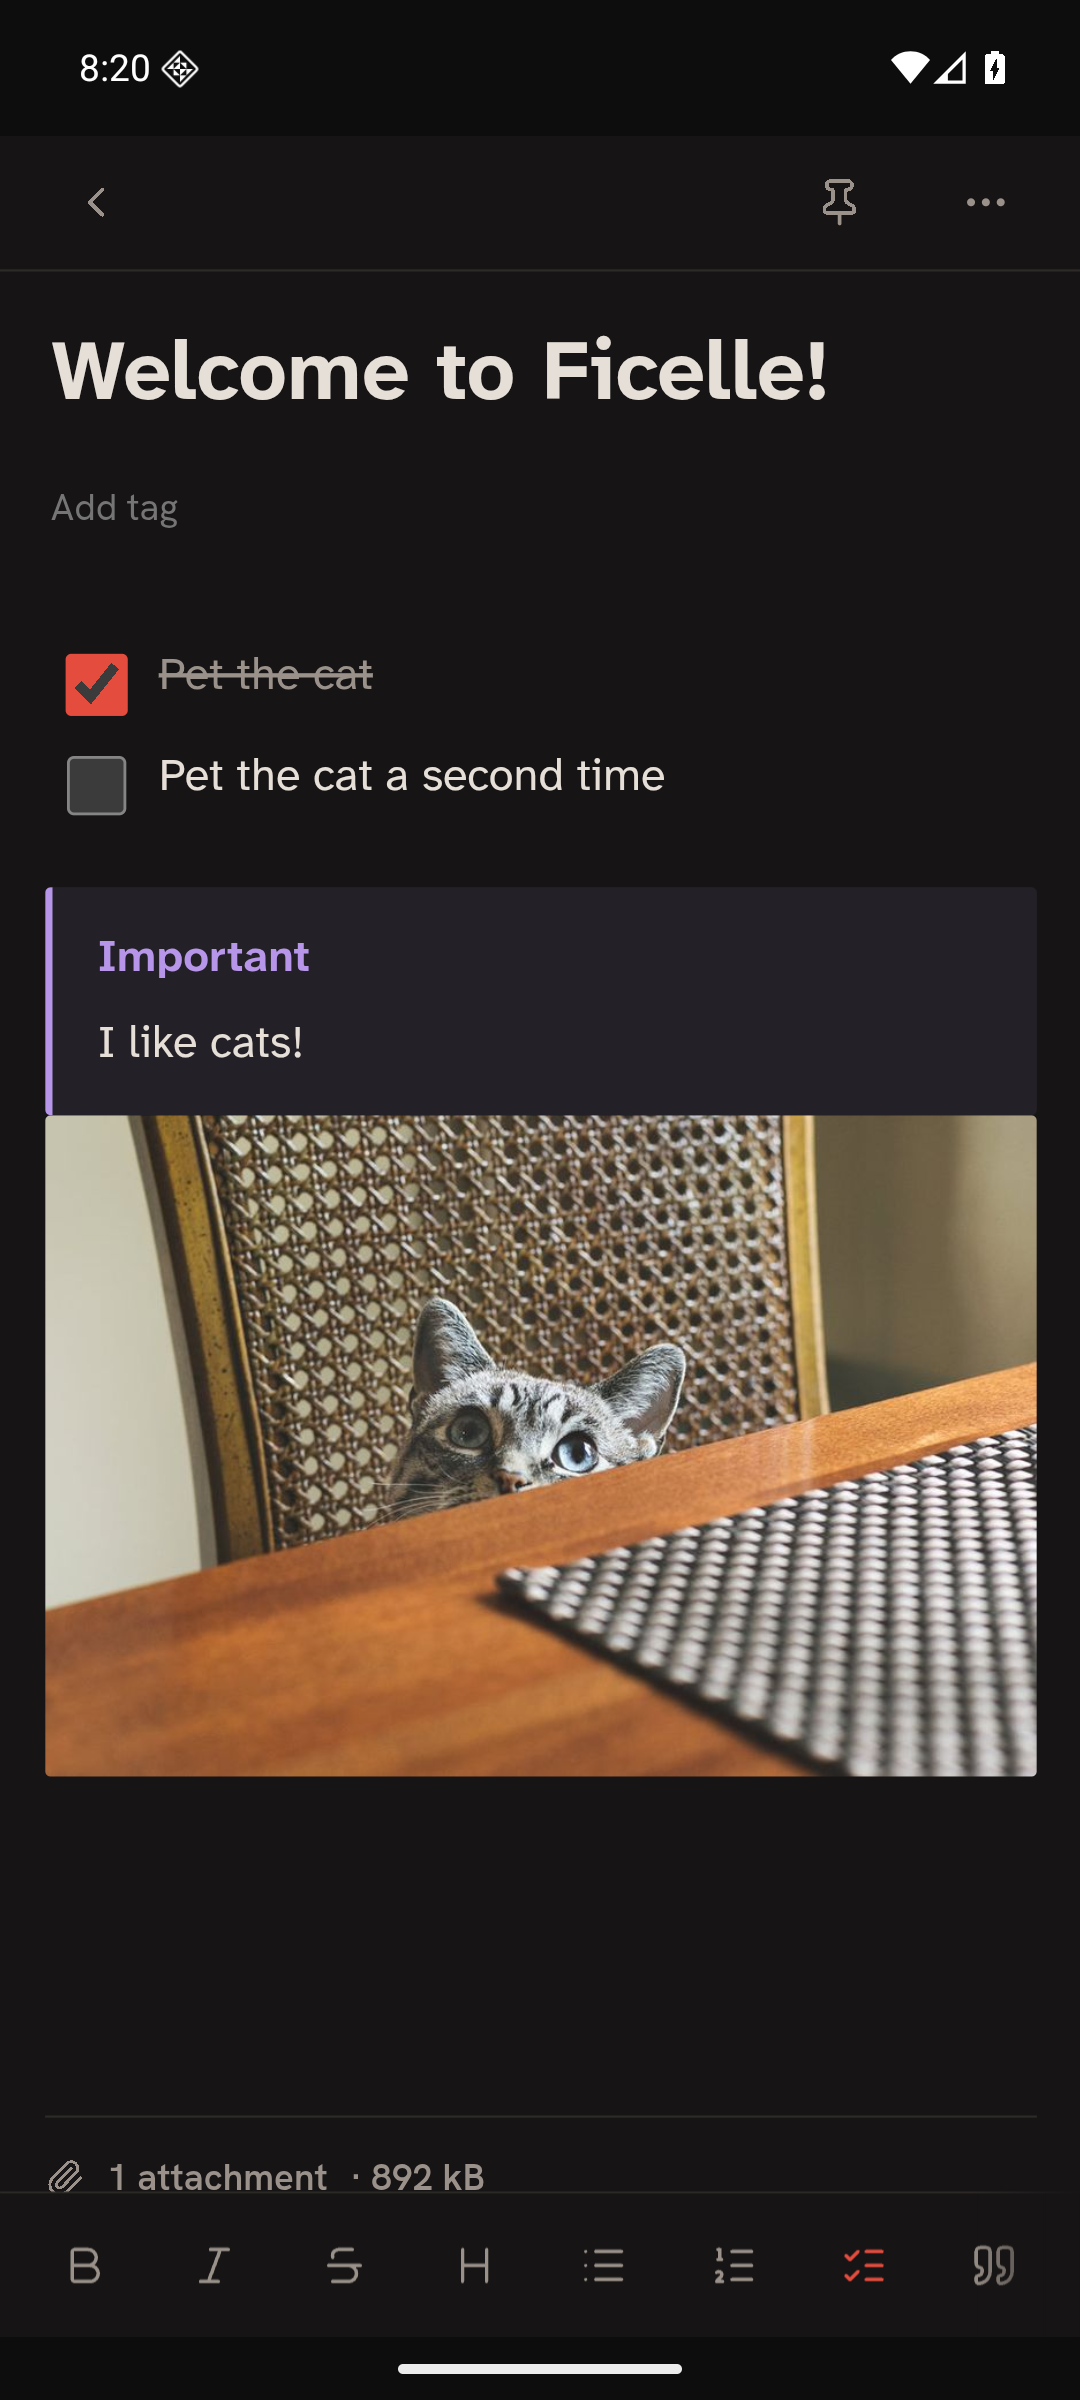
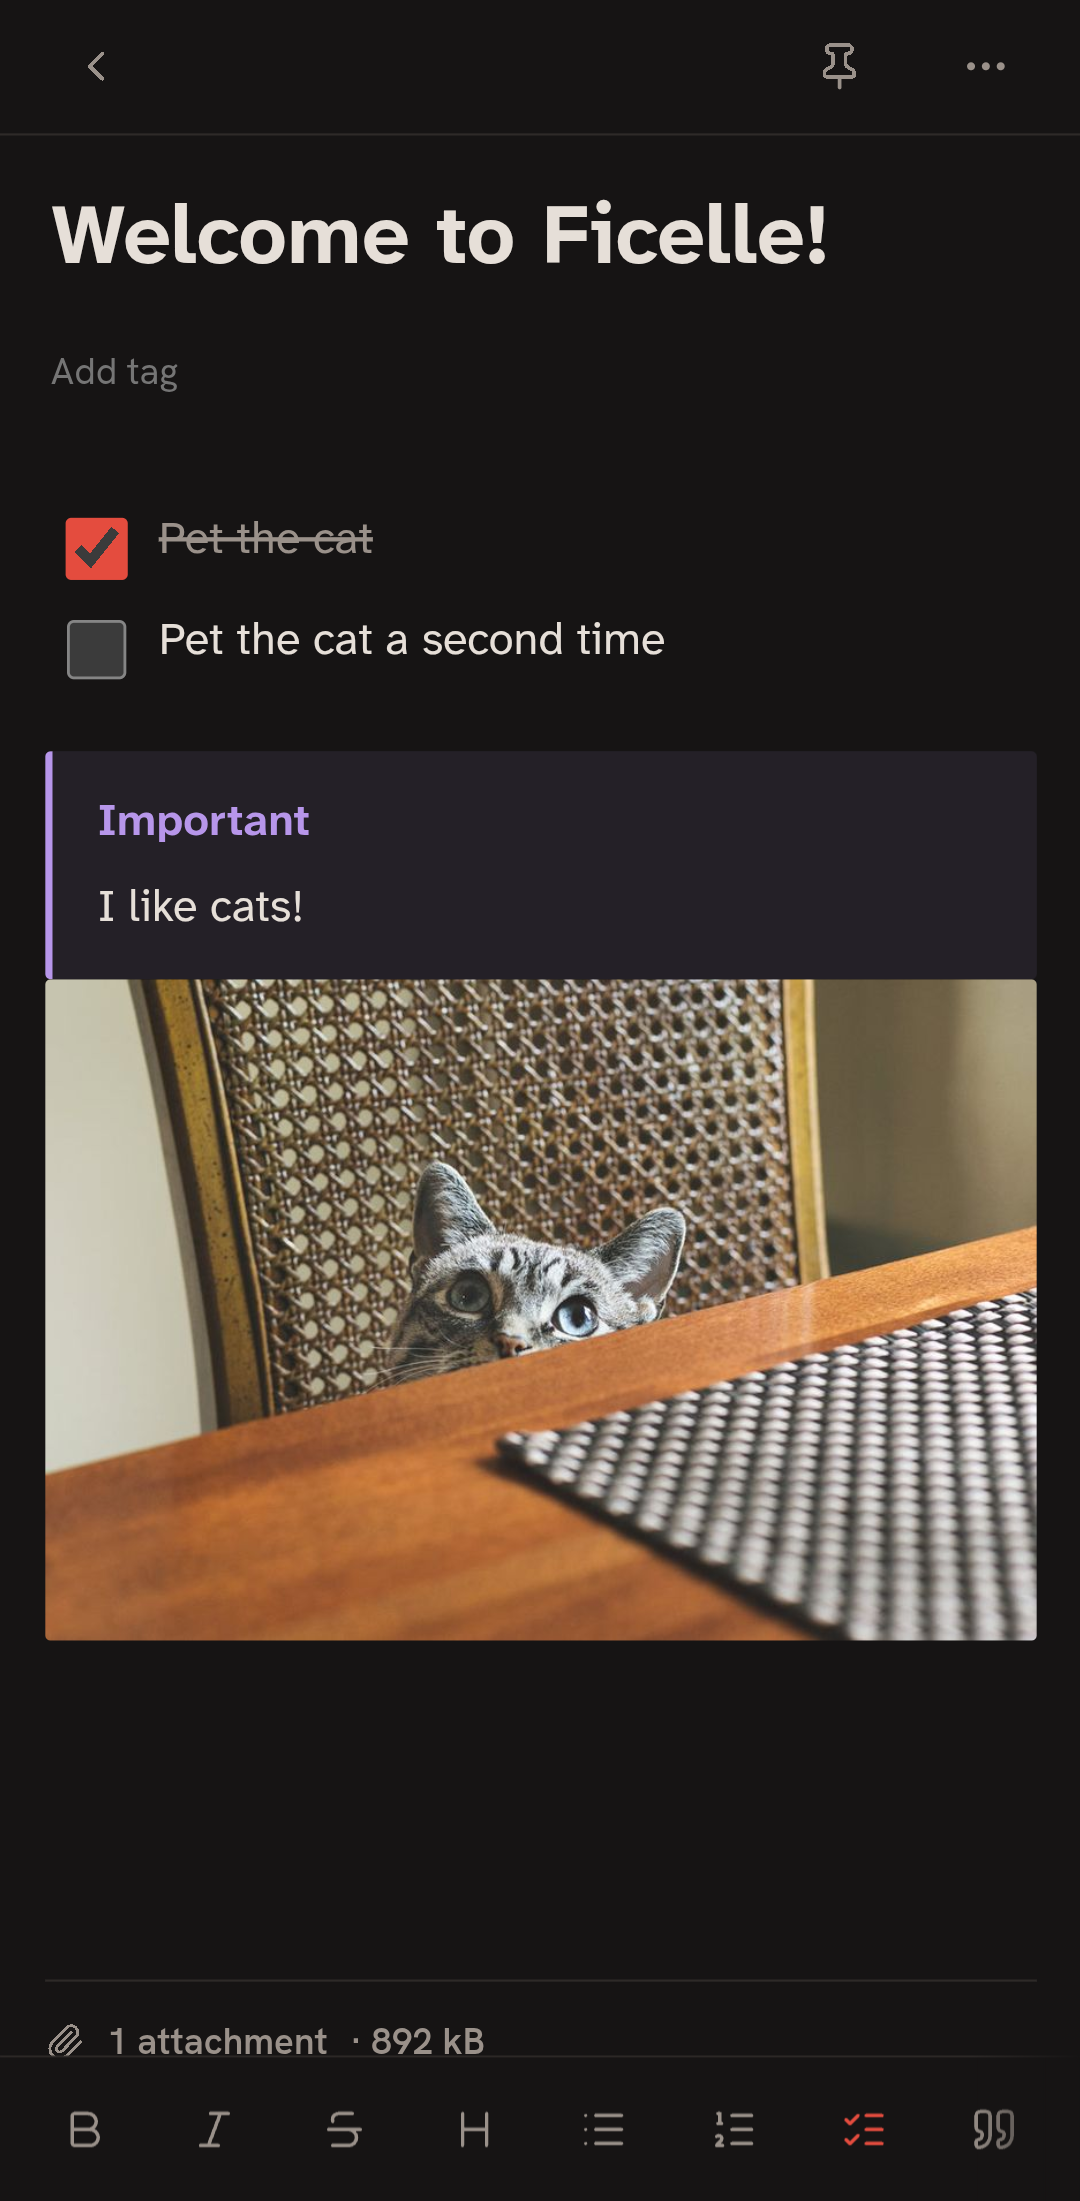
crop the phone's system bars from its screenshot

diff --git a/src/App.svelte b/src/App.svelte
@@ -136,7 +136,7 @@
 
   <section class="screens" aria-label={t.screenshots}>
     <img class="desktop" src={desktopShot} alt={t.desktopShot} width="1280" height="800" />
-    <img class="phone" src={phoneShot} alt={t.phoneShot} width="1080" height="2400" />
+    <img class="phone" src={phoneShot} alt={t.phoneShot} width="1080" height="2201" />
   </section>
 </main>
 
